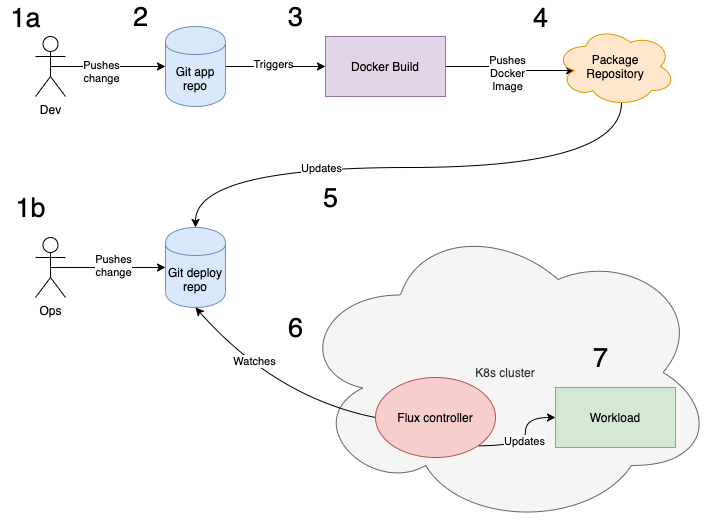
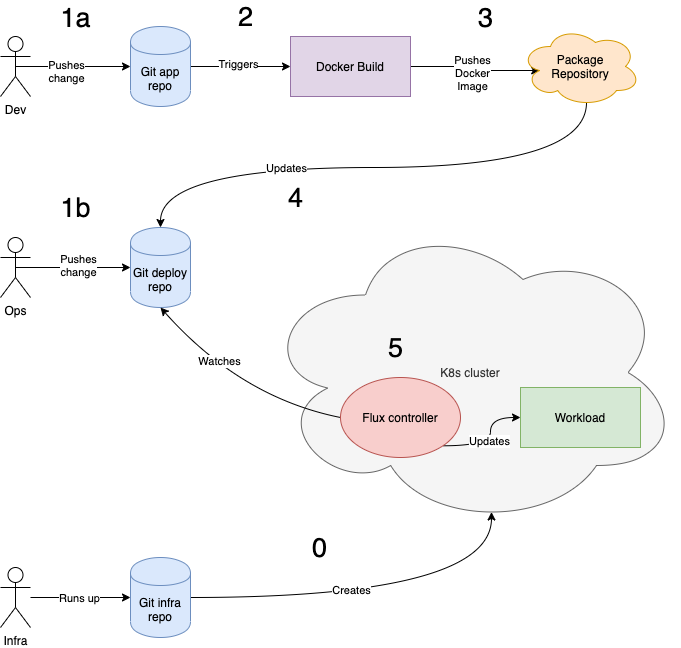
infra

diff --git a/README.md b/README.md
@@ -35,6 +35,10 @@ This diagram illustrates the flow at a high level:
 
 ![High Level Workflow](images/HighLevel.png)
 
+#### Step 0
+
+(Optional) Infrastructure engineer creates Kubernetes cluster using Terraform.
+
 #### Step 1a
 
 A developer can trigger a release by updating a Git repository which contains the application code ([example-gitops-app](https://github.com/ianmiell/example-gitops-app)).
